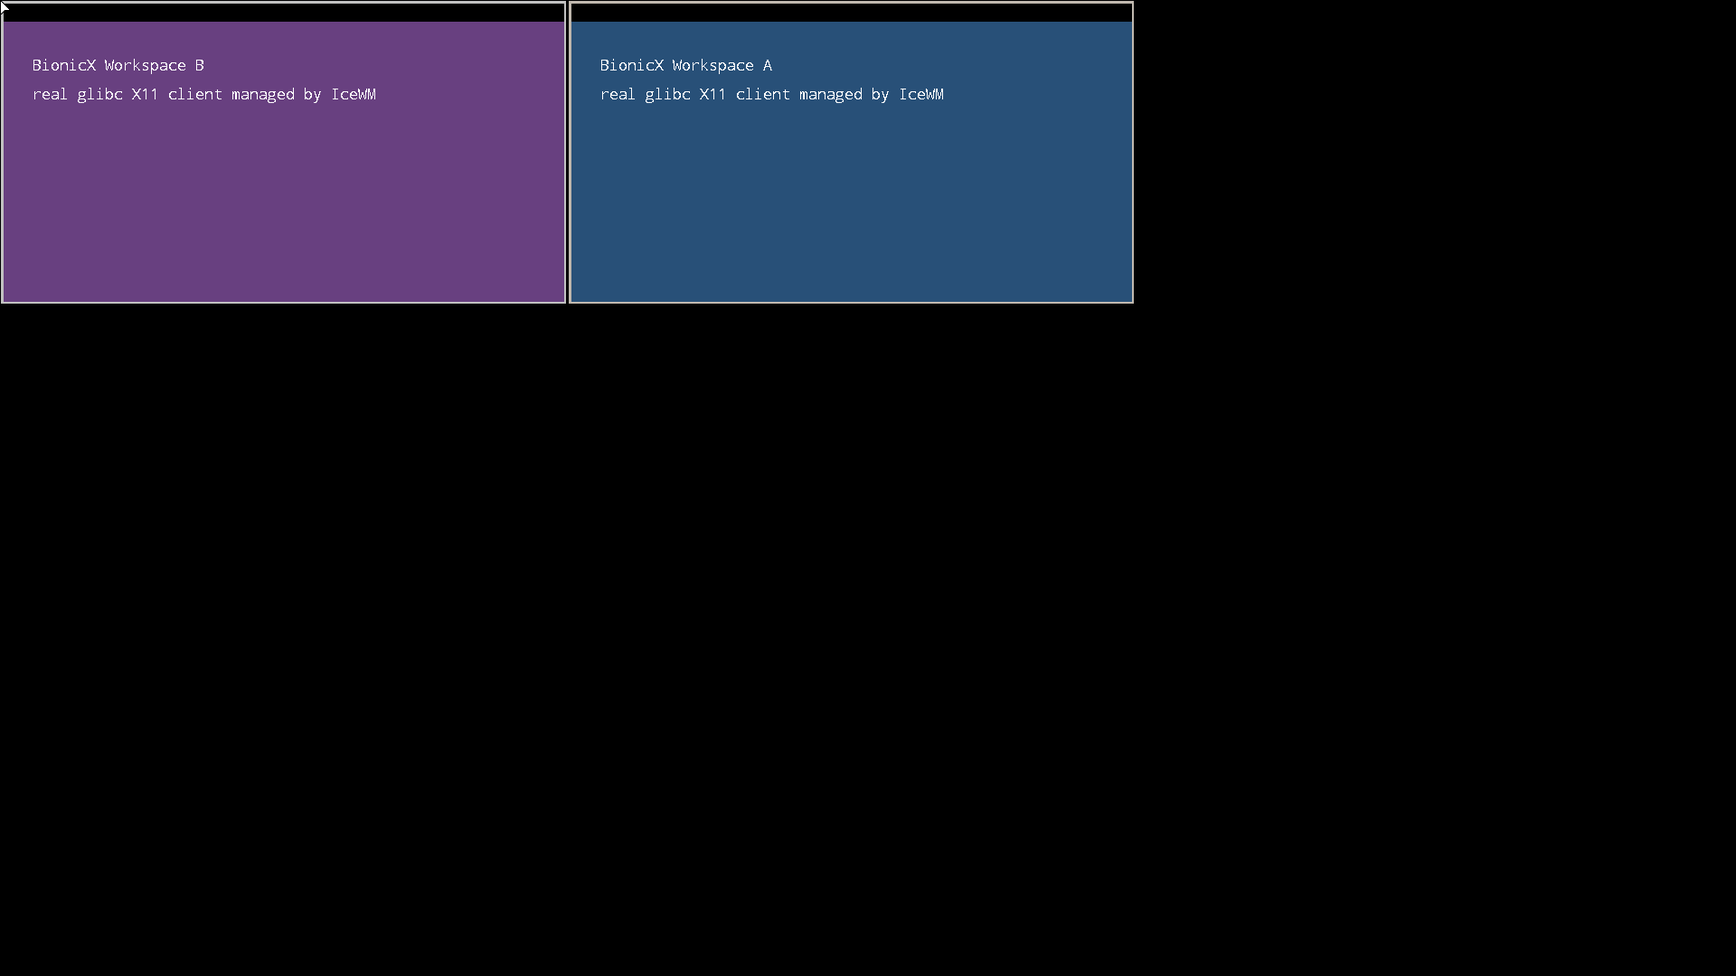
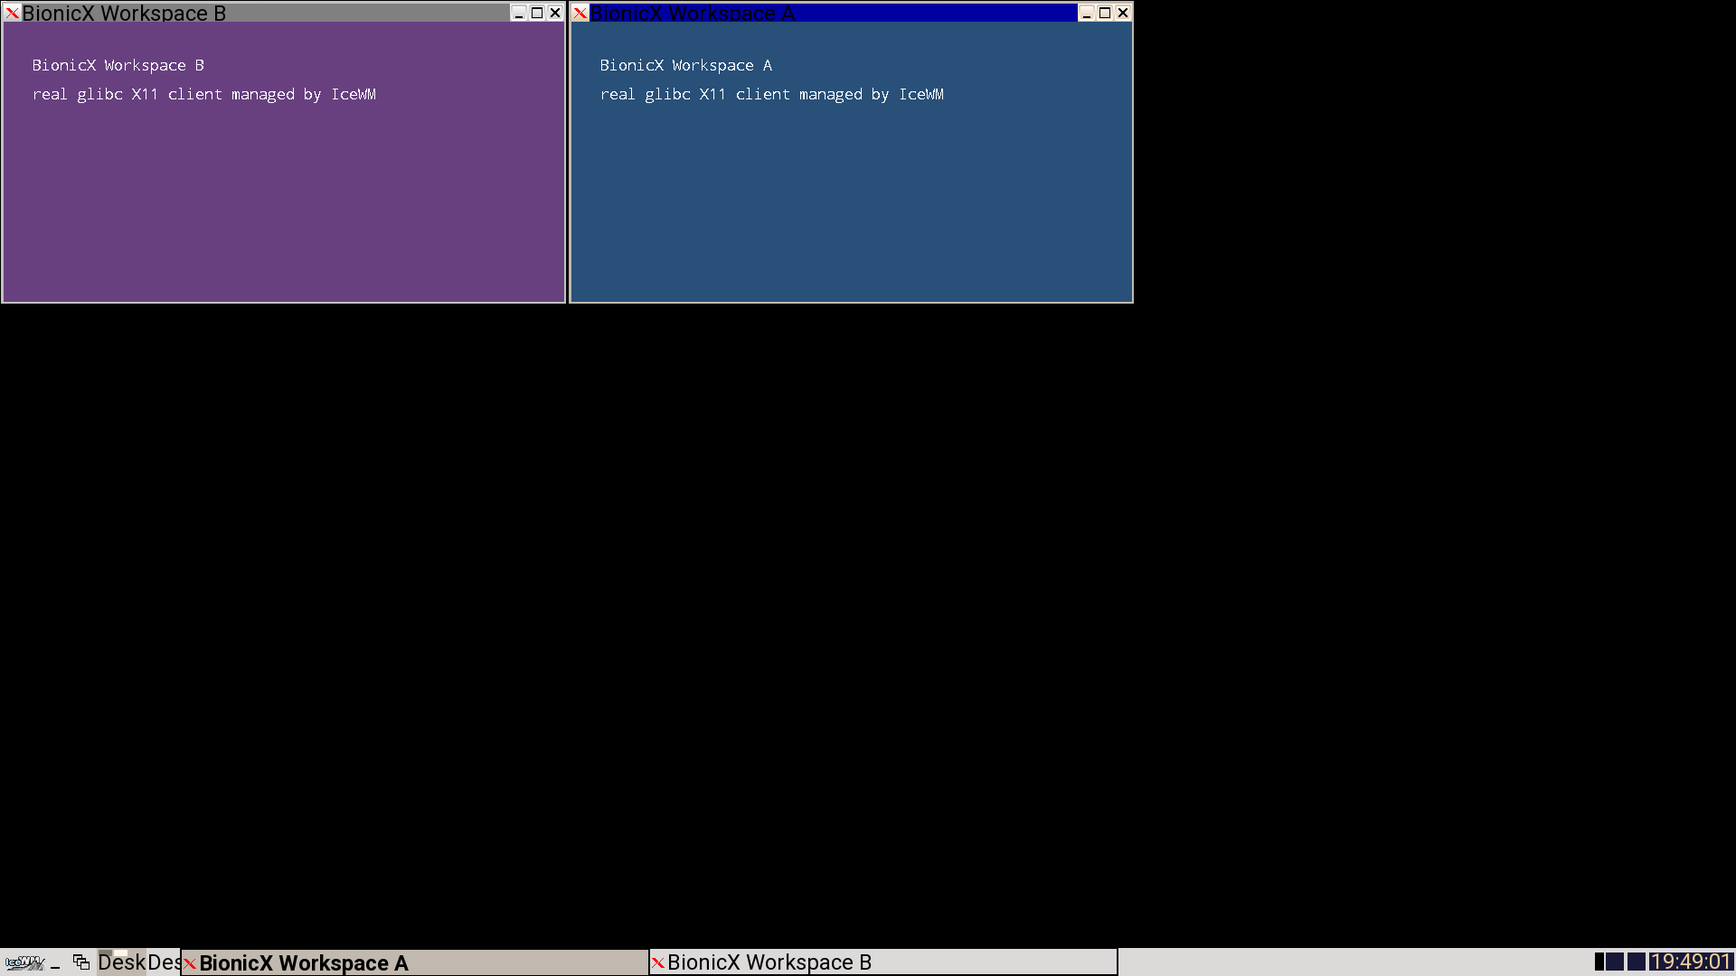
Expose newly viewable X11 window trees

Changed region(s): [[0.0, 0.9472, 1.0, 1.0], [0.0, 0.0, 0.6562, 0.0306]]

diff --git a/examples/icewm-probe/icewm-window.c b/examples/icewm-probe/icewm-window.c
@@ -2,6 +2,7 @@
 
 #include <X11/Xlib.h>
 #include <X11/Xatom.h>
+#include <X11/Xutil.h>
 #include <errno.h>
 #include <stdio.h>
 #include <stdlib.h>
@@ -15,6 +16,9 @@ static void sleep_milliseconds(long milliseconds) {
     };
     while (nanosleep(&delay, &delay) != 0 && errno == EINTR) {}
 }
+
+static unsigned int decoration_windows;
+static unsigned int painted_decorations;
 
 static void paint(Display* display, Window window, GC gc, int width,
                   int height, unsigned long color, const char* title) {
@@ -91,6 +95,69 @@ static int check_taskbar(Display* display) {
                             dock_atom, 0);
 }
 
+static unsigned int dump_tree(Display* display, Window window, int depth) {
+    Window root = None;
+    Window parent = None;
+    Window* children = NULL;
+    unsigned int child_count = 0;
+    if (depth > 12 || !XQueryTree(display, window, &root, &parent,
+                                  &children, &child_count)) return 0;
+
+    unsigned int count = 0;
+    for (unsigned int index = 0; index < child_count; ++index) {
+        XWindowAttributes attributes;
+        if (!XGetWindowAttributes(display, children[index], &attributes))
+            continue;
+        char* name = NULL;
+        XFetchName(display, children[index], &name);
+        printf("BXICEWM tree depth=%d id=0x%lx parent=0x%lx map=%d class=%d "
+               "events=0x%lx geometry=%dx%d%+d%+d title=%s\n",
+               depth, children[index], window, attributes.map_state,
+               attributes.class, attributes.all_event_masks,
+               attributes.width, attributes.height,
+               attributes.x, attributes.y, name != NULL ? name : "-");
+        if (attributes.class == InputOutput && attributes.map_state == IsViewable
+                && name != NULL && (strcmp(name, "TitleBar") == 0
+                || strcmp(name, "Close") == 0
+                || strcmp(name, "TaskBar") == 0)) {
+            XImage* image = XGetImage(display, children[index], 0, 0,
+                    (unsigned int)attributes.width,
+                    (unsigned int)attributes.height, AllPlanes, ZPixmap);
+            if (image != NULL) {
+                unsigned long nonzero = 0;
+                unsigned long different = 0;
+                unsigned long first = XGetPixel(image, 0, 0);
+                unsigned long hash = 1469598103934665603UL;
+                for (int y = 0; y < attributes.height; ++y) {
+                    for (int x = 0; x < attributes.width; ++x) {
+                        unsigned long pixel = XGetPixel(image, x, y);
+                        if (pixel != 0) nonzero++;
+                        if (pixel != first) different++;
+                        hash ^= pixel;
+                        hash *= 1099511628211UL;
+                    }
+                }
+                printf("BXICEWM pixels title=%s nonzero=%lu different=%lu "
+                       "first=0x%lx hash=0x%lx\n", name, nonzero,
+                       different, first, hash);
+                if (strcmp(name, "TitleBar") == 0
+                        || strcmp(name, "Close") == 0) {
+                    decoration_windows++;
+                    if (nonzero == (unsigned long)attributes.width
+                            * (unsigned long)attributes.height
+                            && different > 0) painted_decorations++;
+                }
+                XDestroyImage(image);
+            }
+        }
+        if (name != NULL) XFree(name);
+        count++;
+        count += dump_tree(display, children[index], depth + 1);
+    }
+    if (children != NULL) XFree(children);
+    return count;
+}
+
 int main(int argc, char** argv) {
     const char* title = argc > 1 ? argv[1] : "BionicX desktop window";
     int x = argc > 2 ? atoi(argv[2]) : 100;
@@ -108,6 +175,18 @@ int main(int argc, char** argv) {
         printf("BXTEST %s icewm-taskbar-mapped\n", found ? "PASS" : "FAIL");
         XCloseDisplay(display);
         return found ? 0 : 4;
+    }
+    if (argc > 1 && strcmp(argv[1], "--dump-tree") == 0) {
+        unsigned int count = dump_tree(display, DefaultRootWindow(display), 0);
+        XSync(display, False);
+        printf("BXICEWM tree-summary windows=%u\n", count);
+        int decorations_ok = decoration_windows >= 4
+                && painted_decorations == decoration_windows;
+        printf("BXTEST %s icewm-decoration-pixels painted=%u/%u\n",
+               decorations_ok ? "PASS" : "FAIL", painted_decorations,
+               decoration_windows);
+        XCloseDisplay(display);
+        return count > 0 && decorations_ok ? 0 : 6;
     }
     int screen = DefaultScreen(display);
     int width = 620;

diff --git a/examples/x11-probe/x11-probe.c b/examples/x11-probe/x11-probe.c
@@ -359,6 +359,79 @@ int main(int argc, char **argv) {
            input_geometry_ok ? detail : last_x_error);
     RECORD(input_geometry_ok);
 
+    while (XPending(display)) {
+        XEvent ignored;
+        XNextEvent(display, &ignored);
+    }
+    before = x_errors;
+    Window map_parent = XCreateSimpleWindow(display, window, 400, 160,
+            120, 80, 0, 0, 0x202020);
+    Window map_child = XCreateSimpleWindow(display, map_parent, 4, 4,
+            80, 50, 0, 0, 0x408060);
+    Window map_grandchild = XCreateSimpleWindow(display, map_child, 2, 2,
+            30, 20, 0, 0, 0x804060);
+    XSelectInput(display, map_child, ExposureMask | VisibilityChangeMask);
+    XSelectInput(display, map_grandchild, ExposureMask);
+    XMapSubwindows(display, map_parent);
+    XSync(display, False);
+    XWindowAttributes parent_before_map = {0};
+    XWindowAttributes child_before_map = {0};
+    XWindowAttributes grandchild_before_map = {0};
+    XGetWindowAttributes(display, map_parent, &parent_before_map);
+    XGetWindowAttributes(display, map_child, &child_before_map);
+    XGetWindowAttributes(display, map_grandchild, &grandchild_before_map);
+    bool premature_expose = false;
+    bool premature_visibility = false;
+    while (XPending(display)) {
+        XEvent event;
+        XNextEvent(display, &event);
+        if (event.type == Expose && (event.xexpose.window == map_child
+                || event.xexpose.window == map_grandchild))
+            premature_expose = true;
+        if (event.type == VisibilityNotify
+                && event.xvisibility.window == map_child)
+            premature_visibility = true;
+    }
+    XMapWindow(display, map_parent);
+    XSync(display, False);
+    XWindowAttributes child_after_map = {0};
+    XWindowAttributes grandchild_after_map = {0};
+    XGetWindowAttributes(display, map_child, &child_after_map);
+    XGetWindowAttributes(display, map_grandchild, &grandchild_after_map);
+    bool child_exposed = false;
+    bool child_visible = false;
+    bool grandchild_exposed = false;
+    while (XPending(display)) {
+        XEvent event;
+        XNextEvent(display, &event);
+        if (event.type == Expose && event.xexpose.window == map_child)
+            child_exposed = true;
+        if (event.type == VisibilityNotify
+                && event.xvisibility.window == map_child
+                && event.xvisibility.state == VisibilityUnobscured)
+            child_visible = true;
+        if (event.type == Expose && event.xexpose.window == map_grandchild)
+            grandchild_exposed = true;
+    }
+    bool map_subwindows_ok = x_errors == before
+            && parent_before_map.map_state == IsUnmapped
+            && child_before_map.map_state == IsUnviewable
+            && grandchild_before_map.map_state == IsUnmapped
+            && !premature_expose && !premature_visibility
+            && child_after_map.map_state == IsViewable
+            && grandchild_after_map.map_state == IsUnmapped
+            && child_exposed && child_visible && !grandchild_exposed;
+    snprintf(detail, sizeof(detail),
+             "before=%d/%d/%d premature=%d/%d after=%d/%d expose=%d/%d visible=%d",
+             parent_before_map.map_state, child_before_map.map_state,
+             grandchild_before_map.map_state, premature_expose,
+             premature_visibility,
+             child_after_map.map_state, grandchild_after_map.map_state,
+             child_exposed, grandchild_exposed, child_visible);
+    result("map-subwindows-exposure", map_subwindows_ok, detail);
+    RECORD(map_subwindows_ok);
+    XDestroyWindow(display, map_parent);
+
     int translated_x = 0;
     int translated_y = 0;
     Window translated_child = None;

diff --git a/android/app/src/main/java/com/winlator/xserver/WindowManager.java b/android/app/src/main/java/com/winlator/xserver/WindowManager.java
@@ -17,6 +17,7 @@ import com.winlator.xserver.events.MapNotify;
 import com.winlator.xserver.events.MapRequest;
 import com.winlator.xserver.events.ResizeRequest;
 import com.winlator.xserver.events.UnmapNotify;
+import com.winlator.xserver.events.VisibilityNotify;
 
 import java.util.ArrayList;
 import java.util.List;
@@ -107,11 +108,22 @@ public class WindowManager extends XResourceManager {
                 window.attributes.setMapped(true);
                 window.sendEvent(Event.STRUCTURE_NOTIFY, new MapNotify(window, window));
                 parent.sendEvent(Event.SUBSTRUCTURE_NOTIFY, new MapNotify(parent, window));
-                window.sendEvent(Event.EXPOSURE, new Expose(window));
+                exposeNewlyViewableSubtree(window);
                 triggerOnMapWindow(window);
             }
             else parent.sendEvent(Event.SUBSTRUCTURE_REDIRECT, new MapRequest(parent, window));
         }
+    }
+
+    private void exposeNewlyViewableSubtree(Window window) {
+        if (window.getMapState() != Window.MapState.VIEWABLE) return;
+        if (window.isInputOutput()) {
+            window.sendEvent(Event.EXPOSURE, new Expose(window));
+            window.sendEvent(Event.VISIBILITY_CHANGE, new VisibilityNotify(
+                    window, VisibilityNotify.State.UNOBSCURED));
+        }
+        for (Window child : window.getChildren())
+            exposeNewlyViewableSubtree(child);
     }
 
     public void unmapWindow(Window window) {
@@ -126,9 +138,8 @@ public class WindowManager extends XResourceManager {
     }
 
     public void mapSubWindows(Window window, XClient requestingClient) {
-        for (Window child : window.getChildren())
-            mapSubWindows(child, requestingClient);
-        mapWindow(window, requestingClient);
+        for (Window child : new ArrayList<>(window.getChildren()))
+            mapWindow(child, requestingClient);
     }
 
     public Window getFocusedWindow() {

diff --git a/examples/icewm-probe/icewm-session.c b/examples/icewm-probe/icewm-session.c
@@ -79,6 +79,12 @@ int main(void) {
     };
     pid_t first = launch(client, first_arguments);
     pid_t second = launch(client, second_arguments);
+    sleep_milliseconds(1500);
+    char* tree_arguments[] = {client, "--dump-tree", NULL};
+    pid_t tree = launch(client, tree_arguments);
+    int tree_ok = tree > 0 && wait_success(tree);
+    printf("BXTEST %s icewm-window-tree\n", tree_ok ? "PASS" : "FAIL");
+    fflush(stdout);
     int first_ok = first > 0 && wait_success(first);
     int second_ok = second > 0 && wait_success(second);
     kill(wm, SIGTERM);
@@ -86,9 +92,9 @@ int main(void) {
 
     printf("BXTEST %s icewm-two-clients first=%d second=%d\n",
            first_ok && second_ok ? "PASS" : "FAIL", first_ok, second_ok);
-    int passed = 1 + taskbar_ok + (first_ok && second_ok);
-    int failed = 3 - passed;
+    int passed = 1 + taskbar_ok + tree_ok + (first_ok && second_ok);
+    int failed = 4 - passed;
     printf("BXSUMMARY icewm passed=%d failed=%d\n", passed, failed);
     fflush(stdout);
-    return taskbar_ok && first_ok && second_ok ? 0 : 5;
+    return taskbar_ok && tree_ok && first_ok && second_ok ? 0 : 5;
 }

diff --git a/android/app/src/main/java/com/winlator/xserver/events/VisibilityNotify.java b/android/app/src/main/java/com/winlator/xserver/events/VisibilityNotify.java
@@ -1,0 +1,33 @@
+package com.winlator.xserver.events;
+
+import com.winlator.xconnector.XOutputStream;
+import com.winlator.xconnector.XStreamLock;
+import com.winlator.xserver.Window;
+
+import java.io.IOException;
+
+public class VisibilityNotify extends Event {
+    public enum State {UNOBSCURED, PARTIALLY_OBSCURED, FULLY_OBSCURED}
+
+    private final Window window;
+    private final State state;
+
+    public VisibilityNotify(Window window, State state) {
+        super(15);
+        this.window = window;
+        this.state = state;
+    }
+
+    @Override
+    public void send(short sequenceNumber, XOutputStream outputStream)
+            throws IOException {
+        try (XStreamLock lock = outputStream.lock()) {
+            outputStream.writeByte(code);
+            outputStream.writeByte((byte)0);
+            outputStream.writeShort(sequenceNumber);
+            outputStream.writeInt(window.id);
+            outputStream.writeByte((byte)state.ordinal());
+            outputStream.writePad(23);
+        }
+    }
+}

diff --git a/docs/TEST-MATRIX.md b/docs/TEST-MATRIX.md
@@ -20,7 +20,7 @@ counters. App profiles always run with diagnostics disabled for final proof.
 | Layer | Controlled client | Coverage | State |
 |---|---|---|---|
 | ELF/bootstrap and session | `hello-x11`, `loader-argv0-probe`, `session-x11-probe` | glibc loader and explicit `--argv0`, dependency closure, X connection; subreaper adoption, double-fork + `setsid` detached GUI lifetime, normal drain and TERM cleanup | hello passes; loader argv0 plus runtime 21/21; detached session 3/3, adopted child drain and unrooted cleanup pass on x300 |
-| X11 core | `x11-probe`, `x11-window-tree`, `clipboard-x11-probe`, `keyboard-grab-x11-probe`, `pointer-grab-x11-probe`, `server-grab-x11-probe`, `save-set-x11-probe`, `icewm-probe` | windows including legal `InputOnly` geometry, `InternAtom(only_if_exists)` returning `None`, honest extension advertisement (incomplete DRI3 hidden), cross-process recursive window observation, property round trips and enumeration, cursor-font resource lifecycle, drawing including GC-clipped `CopyArea`, PolyPoint origin/previous coordinates and tiled `CWBackPixmap` clear semantics, cross-client UTF8 selection transfer and cleanup, active/passive keyboard and pointer grabs with contention/ungrab/owner-events/disconnect/automatic-release routing, cursor override, synchronous freeze and `ReplayPointer` click-through, exact pointer event state, server-grab request/setup deferral and disconnect cleanup, WM save-set rescue/reparent/map/coordinate preservation, events, modifier ordering; real WM root `SubstructureRedirect`, request-owner exclusion, reparent coordinates/events and nested mapping; declared runtime-loaded Imlib2 plugin closure | core 22/22, Chrome window tree with zero X errors, clipboard 5/5, keyboard grab 9/9, pointer grab 6/6, server grab 5/5, save set 2/2, and unmodified Debian ARM64 IceWM starting a mapped and visibly themed 1920x32 taskbar and managing two independently connected glibc clients 3/3 all pass with zero unsupported opcodes and zero request errors; cursor-font glyph shapes are approximate, other `AllowEvents` modes are pending, and panel text placement/client decorations remain incomplete |
+| X11 core | `x11-probe`, `x11-window-tree`, `clipboard-x11-probe`, `keyboard-grab-x11-probe`, `pointer-grab-x11-probe`, `server-grab-x11-probe`, `save-set-x11-probe`, `icewm-probe` | windows including legal `InputOnly` geometry, direct-child `MapSubwindows`, delayed viewability exposure and initial visibility notification, `InternAtom(only_if_exists)` returning `None`, honest extension advertisement (incomplete DRI3 hidden), cross-process recursive window observation, property round trips and enumeration, cursor-font resource lifecycle, drawing including GC-clipped `CopyArea`, PolyPoint origin/previous coordinates and tiled `CWBackPixmap` clear semantics, cross-client UTF8 selection transfer and cleanup, active/passive keyboard and pointer grabs with contention/ungrab/owner-events/disconnect/automatic-release routing, cursor override, synchronous freeze and `ReplayPointer` click-through, exact pointer event state, server-grab request/setup deferral and disconnect cleanup, WM save-set rescue/reparent/map/coordinate preservation, events, modifier ordering; real WM root `SubstructureRedirect`, request-owner exclusion, reparent coordinates/events and nested mapping; declared runtime-loaded Imlib2 plugin closure | core 23/23, Chrome window tree with zero X errors, clipboard 5/5, keyboard grab 9/9, pointer grab 6/6, server grab 5/5, save set 2/2, and unmodified Debian ARM64 IceWM starting a fully painted taskbar, managing two independent glibc clients, and painting two title bars plus four control groups 4/4 all pass with zero unsupported opcodes and zero request errors; cursor-font glyph shapes are approximate, dynamic partial/full visibility changes and other `AllowEvents` modes are pending |
 | X11 desktop | `x11-desktop-probe`, `font-xft-probe`, `gtk3-probe` | Render ARGB32/A8 pictures, creation-time repeat, rectangle and 1-bit pixmap clips with clip origins, filters, solid/gradient sources, Clear/Src/Over/In/OutReverse/Add pixel semantics, glyph-set upload/lifecycle and CompositeGlyphs8 alpha-over; XFixes mask-7 selection owner/set/window-destroy/client-close lifecycle, regions and ShapeInput; RandR resources/output/CRTC/property/primary/event masks; XInput2 master ButtonClass, XIQueryPointer, event masks and live DeviceEvents; XKB printable map/event selection/device metadata/names, real xkbcommon compilation and live StateNotify; optional SHM | desktop 9/9 with zero X errors and exact pixmap-clip inside/outside pixels, Fontconfig/Xft 4/4, real GTK3/Pango/label lifecycle 10/10, and five deterministic complete file-chooser paints pass; MIT-SHM remains pending |
 | Host GPU | `glx-probe`, `vulkan-probe` | Real glibc clients through pinned BionicX Gladio and Vortek submodules; complete GLX/GLES capability, shader, cache, draw, readback, and compositor coverage; optional app-private Vulkan host service, glibc Vulkan loader/ICD discovery, shared-ring RPC into a Bionic process, native vendor physical-device/queue/memory discovery, honest device-extension filtering, Xlib/XCB WSI translation, logical-device/swapchain commands, coherent mapped vertex/index/uniform/staging upload, buffer-to-image copies and barriers, sampled-image descriptors, SPIR-V graphics pipelines/render passes/indexed draws, Vulkan 1.3 vertex binding with exact optional-array NULL fidelity, present-semaphore ownership, and imported `AHardwareBuffer` presentation | GLX client 26/26 plus final Android screenshot pixel assertion pass; Chrome's normal untraced profile displays its complete UI through ANGLE/Ganesh OpenGL; Vulkan client 35/35 binds both Xlib and XCB surfaces to a real 640x360 X window, verifies unimplemented fragment shading rate is hidden, uploads mapped buffers, stages and samples a texture, binds uniform and combined-image descriptors, executes an indexed `vkCmdBindVertexBuffers2` draw with NULL sizes/strides, consumes the present semaphore without a pre-present idle, and passes exact two-color Android screenshot assertions through `/vendor/lib64/hw/vulkan.adreno.so`; Chrome ANGLE Vulkan creates 68 observed graphics pipelines successfully, while multi-image swapchain lifecycle remains under investigation |
 | libc/kernel | `runtime-probe` | threads, robust owner death, epoll, signals, processes, IPC, sockets, mmap | 20/20 passing on x300 with BionicX glibc 2.39 |

diff --git a/docs/diagnostics/2026-08-12-core-visibility-notify.md b/docs/diagnostics/2026-08-12-core-visibility-notify.md
@@ -1,0 +1,41 @@
+# Core MapSubwindows and initial visibility
+
+Unmodified Debian ARM64 IceWM created correctly sized, mapped `TitleBar`,
+`Close`, `Minimize`, `Maximize`, and `SysMenu` windows, but Android showed only
+the client areas and frame borders. A live recursive observer established that
+the geometry and renderer traversal were present. `XGetImage` then separated
+the server-side content from Android composition:
+
+```text
+before: TitleBar nonzero=0/12400; Close nonzero=0/400
+```
+
+The taskbar selected `ExposureMask` and painted normally. Decoration windows
+instead selected `VisibilityChangeMask` (`events=0x21203f`). BionicX exposed
+that mask but never sent core event 15. Its `MapSubwindows` implementation also
+recursively mapped descendants and the target itself, and emitted `Expose`
+while descendants were still unviewable.
+
+`MapSubwindows` now maps only the target's direct children. Mapping an ancestor
+walks descendants that become viewable, sends `Expose` to interested clients,
+and sends `VisibilityNotify(Unobscured)` to visibility listeners. The genuine
+glibc/libX11 core probe keeps the parent unmapped while mapping its children and
+asserts the precise transition:
+
+```text
+BXTEST PASS map-subwindows-exposure before=0/1/0 premature=0/0 after=2/0 expose=1/0 visible=1
+BXSUMMARY passed=23 failed=0 observational_input=yes
+```
+
+The real IceWM observer now finds two painted title bars and two painted close
+buttons. Every pixel is nonzero and each drawable contains multiple colors:
+
+```text
+BXTEST PASS icewm-decoration-pixels painted=4/4
+BXSUMMARY icewm passed=4 failed=0
+```
+
+The Android screenshot in `evidence/icewm-managed-windows.png` shows both
+titles and their system/minimize/maximize/close buttons. The run used the
+ordinary app UID with no Frida, proot, Termux, or root requirement and emitted
+no unsupported opcode or X11 request error.

diff --git a/examples/icewm-probe/README.md b/examples/icewm-probe/README.md
@@ -5,6 +5,10 @@ glibc X11 window manager. IceWM selects `SubstructureRedirect` on the root
 window, reparents two independently connected glibc clients into managed
 frames, configures them and maps them.
 
+The probe recursively inspects the live hierarchy and reads back the server-side
+pixels for both title bars and close buttons. This catches cases where frame
+geometry exists but missing visibility events leave its decorations black.
+
 The probe also enables IceWM's taskbar and verifies its mapped, screen-width
 `TaskBar` window in the real X11 hierarchy. The bundle explicitly declares the
 Imlib2 PNG and XPM plugins as runtime-loaded ELF entry points, so their own

diff --git a/docs/diagnostics/2026-08-12-icewm-taskbar-imlib2-plugin.md b/docs/diagnostics/2026-08-12-icewm-taskbar-imlib2-plugin.md
@@ -56,7 +56,8 @@ validated same-depth pixmaps, background pixels and ParentRelative state;
 The core probe reads back the exact `0x3264c8` tile pixel and passes 19/19.
 After this change, visual inspection shows the IceWM start icon, workspace and
 task buttons, and monitor widgets across the bottom panel. Text placement and
-managed-window decorations are still incomplete and remain separate targets.
+managed-window decorations were completed later by the initial visibility
+work recorded in `2026-08-12-core-visibility-notify.md`.
 
 IceWM also issued fourteen core `PolyPoint` requests while drawing its panel
 monitors. BionicX now implements both `CoordModeOrigin` and

diff --git a/docs/COMPATIBILITY.md b/docs/COMPATIBILITY.md
@@ -31,6 +31,10 @@
 - Core window-manager save sets: insert/delete validation and disconnect-time
   rescue reparenting preserve foreign client windows, mapping and screen
   coordinates when manager-owned frames are destroyed.
+- Core `MapSubwindows` maps direct children without implicitly mapping the
+  target or deeper descendants. Newly viewable mapped subtrees receive initial
+  `Expose` and `VisibilityNotify(Unobscured)` events; dynamic partial/full
+  obscurity tracking during later stacking changes remains pending.
 
 ## What an application bundle must supply
 
